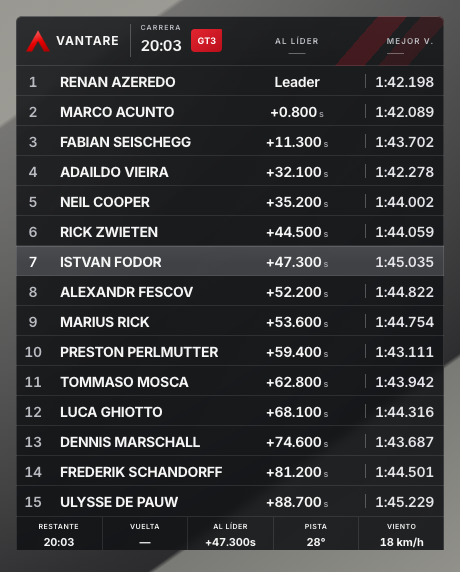
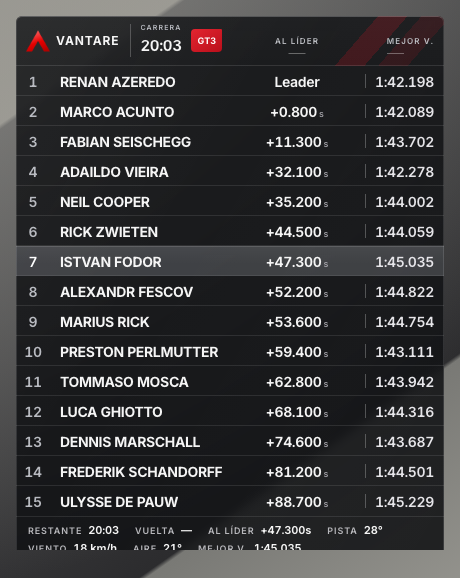
feat(functional): footer slots sin tope ni divisores (ISA-1128)
Isaac: no 5-slot cap, no rectangle separators. The strip is now a plain
flex row of label+value pairs that wraps when it overflows; selection
moves to Studio settings later. Also fixes --vf-faint being undefined
(slot labels now share the --vf-muted rule).

Generated with [Devin](https://devin.ai)

diff --git a/vantare-v2/frontend/src/overlay/authoring/FunctionalStudyControls.tsx b/vantare-v2/frontend/src/overlay/authoring/FunctionalStudyControls.tsx
@@ -5,7 +5,7 @@ import { listAnimationScenes } from "./fixtures/animation-scenes";
 import { projectionGapsFor } from "./fixtures/projection-gaps";
 import { WORKSHOP_V2_VARIANTS } from "./fixtures/authoring-v2-workshop-frame";
 import { serializeOverlayWorkshopQuery, type OverlayWorkshopQuery } from "./overlay-workshop-query";
-import { FUNCTIONAL_STUDY_DEFAULT_MODULES, FUNCTIONAL_STUDY_MAX_SLOTS, FUNCTIONAL_STUDY_MODULES, FUNCTIONAL_STUDY_SLOTS, FUNCTIONAL_STUDY_STYLES } from "./functional-study-options";
+import { FUNCTIONAL_STUDY_DEFAULT_MODULES, FUNCTIONAL_STUDY_MODULES, FUNCTIONAL_STUDY_SLOTS, FUNCTIONAL_STUDY_STYLES } from "./functional-study-options";
 
 const SYSTEM_LABELS: Record<string, string> = {
   "vantare-functional": "Eficiencia",
@@ -150,11 +150,11 @@ export function FunctionalStudyControls({ query, update, onRunScene, onReset }: 
         return <label key={item.id} className="functional-study-toggle"><span>{item.label}</span><input type="checkbox" checked={modules.includes(item.id)} onChange={() => update({ ...query, modules: modules.includes(item.id) ? modules.filter((id) => id !== item.id) : [...modules, item.id] })} /></label>;
       })}
     </fieldset>}
-    {isFunctional && (isStandings || query.widget === "relative") && <fieldset><legend>Pie de datos</legend><p className="functional-study-note">Hasta {FUNCTIONAL_STUDY_MAX_SLOTS} huecos, en orden de selección.</p>
+    {isFunctional && (isStandings || query.widget === "relative") && <fieldset><legend>Pie de datos</legend><p className="functional-study-note">Datos bajo las filas, en orden de selección.</p>
       {FUNCTIONAL_STUDY_SLOTS.map((slot) => {
         const slots = query.slots ?? [];
         const on = slots.includes(slot.id);
-        return <label key={slot.id} className="functional-study-toggle"><span>{slot.label}</span><input type="checkbox" checked={on} disabled={!on && slots.length >= FUNCTIONAL_STUDY_MAX_SLOTS} onChange={() => update({ ...query, slots: on ? slots.filter((id) => id !== slot.id) : [...slots, slot.id] })} /></label>;
+        return <label key={slot.id} className="functional-study-toggle"><span>{slot.label}</span><input type="checkbox" checked={on} onChange={() => update({ ...query, slots: on ? slots.filter((id) => id !== slot.id) : [...slots, slot.id] })} /></label>;
       })}
     </fieldset>}
 

diff --git a/vantare-v2/frontend/src/overlay/design-systems/vantare-functional/tokens.css b/vantare-v2/frontend/src/overlay/design-systems/vantare-functional/tokens.css
@@ -70,14 +70,15 @@
 .vf-meta { border-bottom: 1px solid var(--vf-line); }
 .vf-footer { border-top: 1px solid var(--vf-line); }
 
-/* Huecos de datos del pie: hasta 5 celdas etiqueta+valor repartidas. */
-.vf-slots { position: relative; z-index: 1; display: grid; grid-auto-flow: column; grid-auto-columns: 1fr; border-top: 1px solid var(--vf-line); }
-.vf-slot { display: flex; flex-direction: column; align-items: center; gap: 1px; padding: 5px 8px 6px; min-width: 0; }
-.vf-slot + .vf-slot { border-left: 1px solid var(--vf-line); }
-.vf-slot-label { font-size: 7px; font-weight: 600; letter-spacing: .07em; color: var(--vf-faint); text-transform: uppercase; white-space: nowrap; }
-.vf-slot-value { font-size: 11px; font-weight: 700; letter-spacing: -.01em; color: var(--vf-ink); font-variant-numeric: tabular-nums; white-space: nowrap; }
-.vf-footer-item { display: flex; align-items: baseline; gap: 6px; font: 600 9px/1 Inter, Arial, sans-serif; letter-spacing: .1em; text-transform: uppercase; color: var(--vf-muted); }
-.vf-footer-item b { font: 650 11px/1 Inter, Arial, sans-serif; letter-spacing: -.01em; text-transform: none; font-variant-numeric: tabular-nums; color: var(--vf-ink); }
+/* Huecos de datos del pie: fila limpia de pares etiqueta+valor, sin
+   divisores entre celdas. Cada par comparte la tipografía de
+   .vf-footer-item (etiqueta uppercase pequeña + valor en negrita en la
+   misma línea); solo queda la línea superior sobre toda la fila. */
+.vf-slots { position: relative; z-index: 1; display: flex; flex-wrap: wrap; align-items: baseline; gap: 7px 16px; padding: 8px 12px; border-top: 1px solid var(--vf-line); }
+.vf-slot, .vf-footer-item { display: flex; align-items: baseline; gap: 6px; font: 600 9px/1 Inter, Arial, sans-serif; letter-spacing: .1em; text-transform: uppercase; color: var(--vf-muted); }
+.vf-slot-label { white-space: nowrap; }
+.vf-slot-value, .vf-footer-item b { font: 650 11px/1 Inter, Arial, sans-serif; letter-spacing: -.01em; text-transform: none; font-variant-numeric: tabular-nums; color: var(--vf-ink); }
+.vf-slot-value { white-space: nowrap; }
 .vf-footer-item--end { margin-left: auto; }
 .vf-detail { color: var(--vf-muted); }
 .vf-session-type[role="status"] { color: #e2c568; letter-spacing: 0; }

diff --git a/vantare-v2/frontend/src/overlay/authoring/overlay-workshop-query.ts b/vantare-v2/frontend/src/overlay/authoring/overlay-workshop-query.ts
@@ -5,7 +5,7 @@ import { getAnimationScene } from "./fixtures/animation-scenes";
 import { getOfficialDesign } from "../design-systems/official-designs";
 import { designSystemRegistry } from "../core/design-system-registry";
 import { WIDGET_TYPES } from "../core/profile-document";
-import { FUNCTIONAL_STUDY_MAX_SLOTS, FUNCTIONAL_STUDY_MODULE_IDS, FUNCTIONAL_STUDY_SLOT_IDS, FUNCTIONAL_STUDY_STYLE_IDS, type FunctionalStudyStyleId } from "./functional-study-options";
+import { FUNCTIONAL_STUDY_MODULE_IDS, FUNCTIONAL_STUDY_SLOT_IDS, FUNCTIONAL_STUDY_STYLE_IDS, type FunctionalStudyStyleId } from "./functional-study-options";
 
 export type OverlayWorkshopQuery = {
   widget: WidgetType;
@@ -17,7 +17,7 @@ export type OverlayWorkshopQuery = {
   /** Columnas opcionales del estudio (gap/bestLap/lastLap/pit). Misma regla:
    *  solo dentro de `standings-functional-study`. */
   modules?: readonly string[];
-  /** Huecos de datos del pie (máx. 5) en standings/relative de Eficiencia. */
+  /** Huecos de datos del pie en standings/relative de Eficiencia. */
   slots?: readonly string[];
   state: AuthoringV2Scenario["state"];
   surface: "studio" | "desktop" | "obs" | "harness";
@@ -181,7 +181,7 @@ export function parseOverlayWorkshopQuery(search: string): OverlayWorkshopQuery 
   const slotsRaw = params.get("slots");
   let slots: readonly string[] | undefined;
   if (slotsRaw !== null) {
-    const list = slotsRaw.split(",").filter(Boolean).slice(0, FUNCTIONAL_STUDY_MAX_SLOTS);
+    const list = slotsRaw.split(",").filter(Boolean);
     const unknown = list.find((id) => !FUNCTIONAL_STUDY_SLOT_IDS.has(id));
     if (unknown) return { error: `invalid slots parameter: ${slotsRaw}` };
     if (system === "vantare-functional" && (widget === "standings" || widget === "relative") && list.length > 0) {

diff --git a/vantare-v2/frontend/src/overlay/design-systems/vantare-functional/StandingsFunctional.test.tsx b/vantare-v2/frontend/src/overlay/design-systems/vantare-functional/StandingsFunctional.test.tsx
@@ -55,11 +55,16 @@ describe("Functional Standings", () => {
     expect(footer?.textContent).toContain("18 km/h");
   });
 
-  it("renders up to five data slots under the rows and they replace the ambient footer", () => {
+  it("renders every selected data slot under the rows and they replace the ambient footer", () => {
     const withWeather = { ...model, trackTempText: "28°", windText: "18 km/h" };
     const { container } = render(<StandingsFunctional model={withWeather} settings={{ footerSlots: ["time", "position", "gap", "track", "wind", "lap"] }} renderMode="harness" />);
     const slotEls = container.querySelectorAll(".vf-slot");
-    expect(slotEls).toHaveLength(5);
+    expect(slotEls).toHaveLength(6);
+    expect([...slotEls].map((el) => el.getAttribute("data-slot"))).toEqual(["time", "position", "gap", "track", "wind", "lap"]);
+    // Cada hueco es un par plano etiqueta+valor: sin elementos separadores.
+    for (const el of slotEls) {
+      expect([...el.children].map((child) => child.className)).toEqual(["vf-slot-label", "vf-slot-value"]);
+    }
     expect(container.querySelector('[data-slot="gap"] .vf-slot-value')?.textContent).toBe("+2.106s");
     expect(container.querySelector('[data-slot="track"] .vf-slot-value')?.textContent).toBe("28°");
     expect(container.querySelector(".vf-footer")).toBeNull();

diff --git a/vantare-v2/frontend/src/overlay/design-systems/vantare-functional/manifest.ts b/vantare-v2/frontend/src/overlay/design-systems/vantare-functional/manifest.ts
@@ -26,8 +26,10 @@ export const vantareFunctionalManifest: DesignSystemDefinition = {
           // en el Workshop la escribe el selector de marca.
           showBrand: value.showBrand === true,
           ...(typeof value.brandVisible === "boolean" ? { brandVisible: value.brandVisible } : {}),
-          // Huecos de datos del pie (máx. 5 ids conocidos).
-          ...(Array.isArray(value.footerSlots) ? { footerSlots: value.footerSlots.filter((s): s is string => typeof s === "string").slice(0, 5) } : {}),
+          // Huecos de datos del pie: solo ids string; el renderer resuelve
+          // el vocabulario y no hay tope — la selección final la acota el
+          // usuario en los ajustes de Overlay Studio.
+          ...(Array.isArray(value.footerSlots) ? { footerSlots: value.footerSlots.filter((s): s is string => typeof s === "string") } : {}),
         };
       },
       inspector: { appearance: [{ kind: "toggle", id: "show-session-header", labelKey: "overlay.inspector.standings.showSessionHeader", path: "showSessionHeader", defaultValue: true }] },

diff --git a/vantare-v2/frontend/src/overlay/authoring/overlay-workshop-query.test.ts b/vantare-v2/frontend/src/overlay/authoring/overlay-workshop-query.test.ts
@@ -96,10 +96,10 @@ describe("Overlay Workshop query", () => {
     );
   });
 
-  it("parses footer slots for functional standings/relative, capped at five, and drops them elsewhere", () => {
+  it("parses footer slots for functional standings/relative without a cap and drops them elsewhere", () => {
     const standings = parseOverlayWorkshopQuery("?widget=standings&system=vantare-functional&slots=time,lap,gap,track,wind,ambient");
     expect(standings).not.toHaveProperty("error");
-    if (!("error" in standings)) expect(standings.slots).toEqual(["time", "lap", "gap", "track", "wind"]);
+    if (!("error" in standings)) expect(standings.slots).toEqual(["time", "lap", "gap", "track", "wind", "ambient"]);
     const relative = parseOverlayWorkshopQuery("?widget=relative&system=vantare-functional&slots=bestLap");
     if (!("error" in relative)) expect(relative.slots).toEqual(["bestLap"]);
     expect(parseOverlayWorkshopQuery("?widget=delta&system=vantare-functional&slots=gap")).not.toHaveProperty("slots");

diff --git a/vantare-v2/frontend/src/overlay/authoring/functional-study-options.ts b/vantare-v2/frontend/src/overlay/authoring/functional-study-options.ts
@@ -25,8 +25,9 @@ export const FUNCTIONAL_STUDY_STYLE_IDS = new Set<string>(
   FUNCTIONAL_STUDY_STYLES.map((style) => style.id),
 );
 
-/** Huecos de datos del pie (máx. 5): vocabulario compartido de standings y
- * relative. Cada id resuelve desde el VM; lo ausente se pinta "—". */
+/** Huecos de datos del pie: vocabulario compartido de standings y relative.
+ * Sin tope — la selección final la acota el usuario en Overlay Studio.
+ * Cada id resuelve desde el VM; lo ausente se pinta "—". */
 export const FUNCTIONAL_STUDY_SLOTS = [
   { id: "time", label: "Tiempo" },
   { id: "lap", label: "Vuelta" },
@@ -42,5 +43,3 @@ export const FUNCTIONAL_STUDY_SLOTS = [
 export const FUNCTIONAL_STUDY_SLOT_IDS = new Set<string>(
   FUNCTIONAL_STUDY_SLOTS.map((slot) => slot.id),
 );
-
-export const FUNCTIONAL_STUDY_MAX_SLOTS = 5;

diff --git a/vantare-v2/frontend/src/overlay/design-systems/vantare-functional/footer-slots.ts b/vantare-v2/frontend/src/overlay/design-systems/vantare-functional/footer-slots.ts
@@ -6,8 +6,6 @@ type Labels = (typeof functionalLabels)["en"];
 
 export type FooterSlotCell = { id: string; label: string; value: string };
 
-const MAX_SLOTS = 5;
-
 /** Resuelve el vocabulario de huecos del pie sobre los VMs de standings y
  * relative. Lo que el VM no transporta se pinta "—": nunca se inventa. */
 export function resolveFunctionalFooterSlots(
@@ -39,7 +37,7 @@ export function resolveFunctionalFooterSlots(
     ambient: labels.ambientTemp,
     wind: labels.wind,
   };
-  return slotIds.slice(0, MAX_SLOTS).map((id) => ({
+  return slotIds.map((id) => ({
     id,
     label: labelFor[id] ?? id.toUpperCase(),
     value: values[id] ?? "—",

diff --git a/vantare-v2/frontend/src/overlay/authoring/fixtures/authoring-v2-workshop-frame.ts b/vantare-v2/frontend/src/overlay/authoring/fixtures/authoring-v2-workshop-frame.ts
@@ -188,7 +188,7 @@ export function buildWorkshopWidget(input: {
     widget = { ...widget, content: { ...content, columns, rowCount: 15 } };
   }
 
-  // Huecos de datos del pie (hasta 5) en standings/relative de Eficiencia.
+  // Huecos de datos del pie en standings/relative de Eficiencia.
   if (input.slots && input.slots.length > 0 && input.system === "vantare-functional"
     && (input.widget === "standings" || input.widget === "relative")) {
     widget = {
